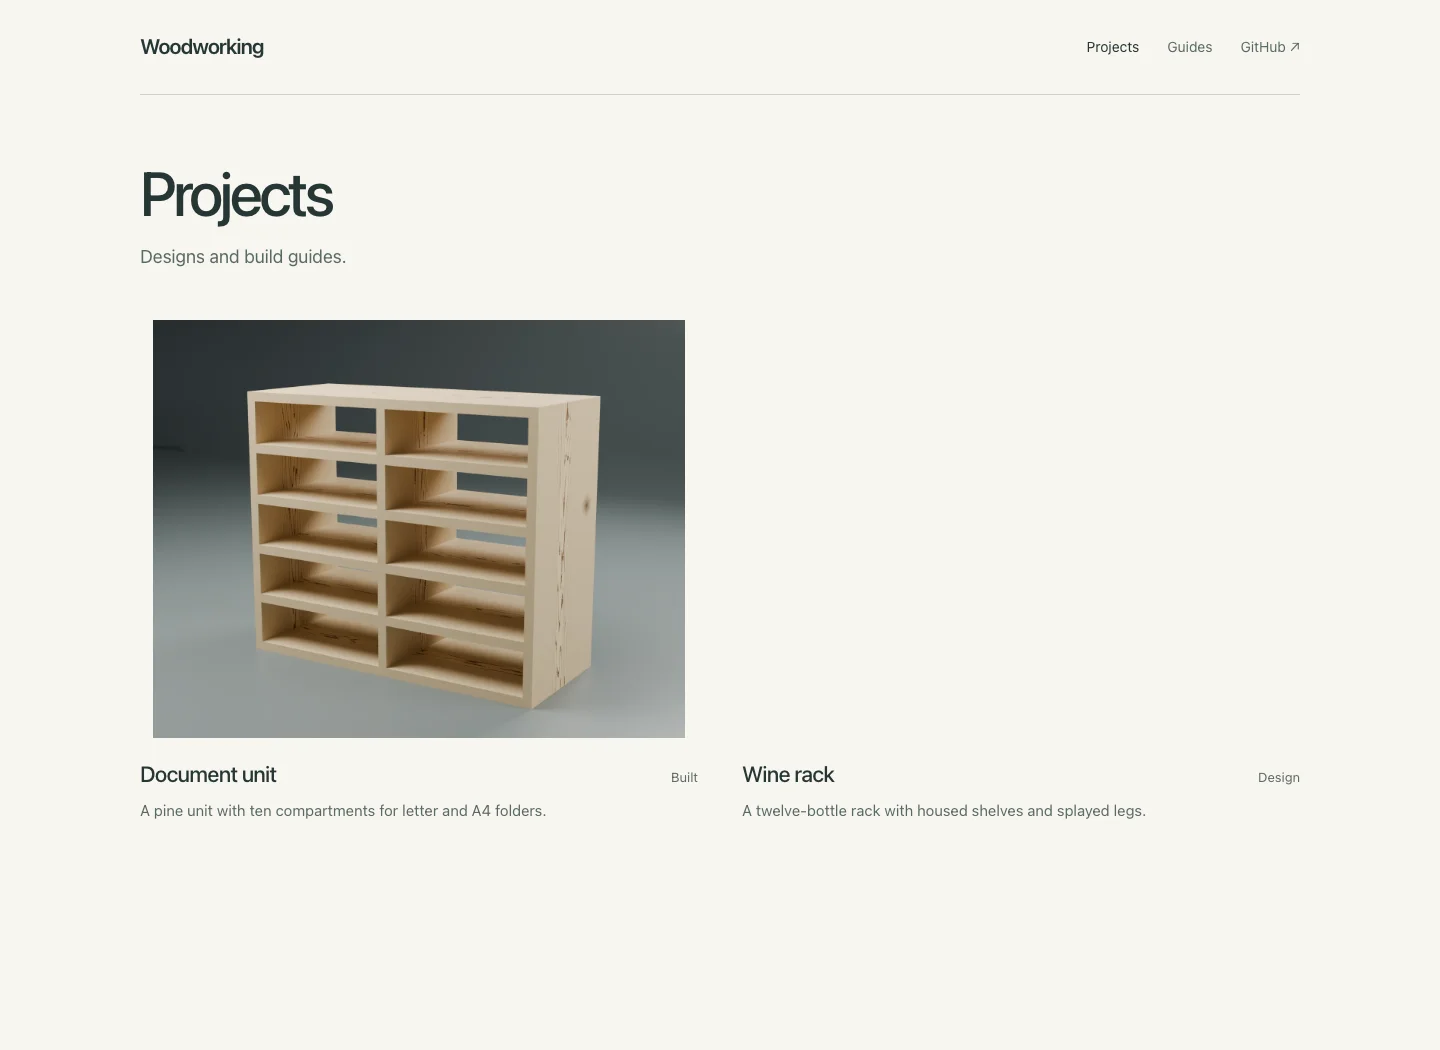
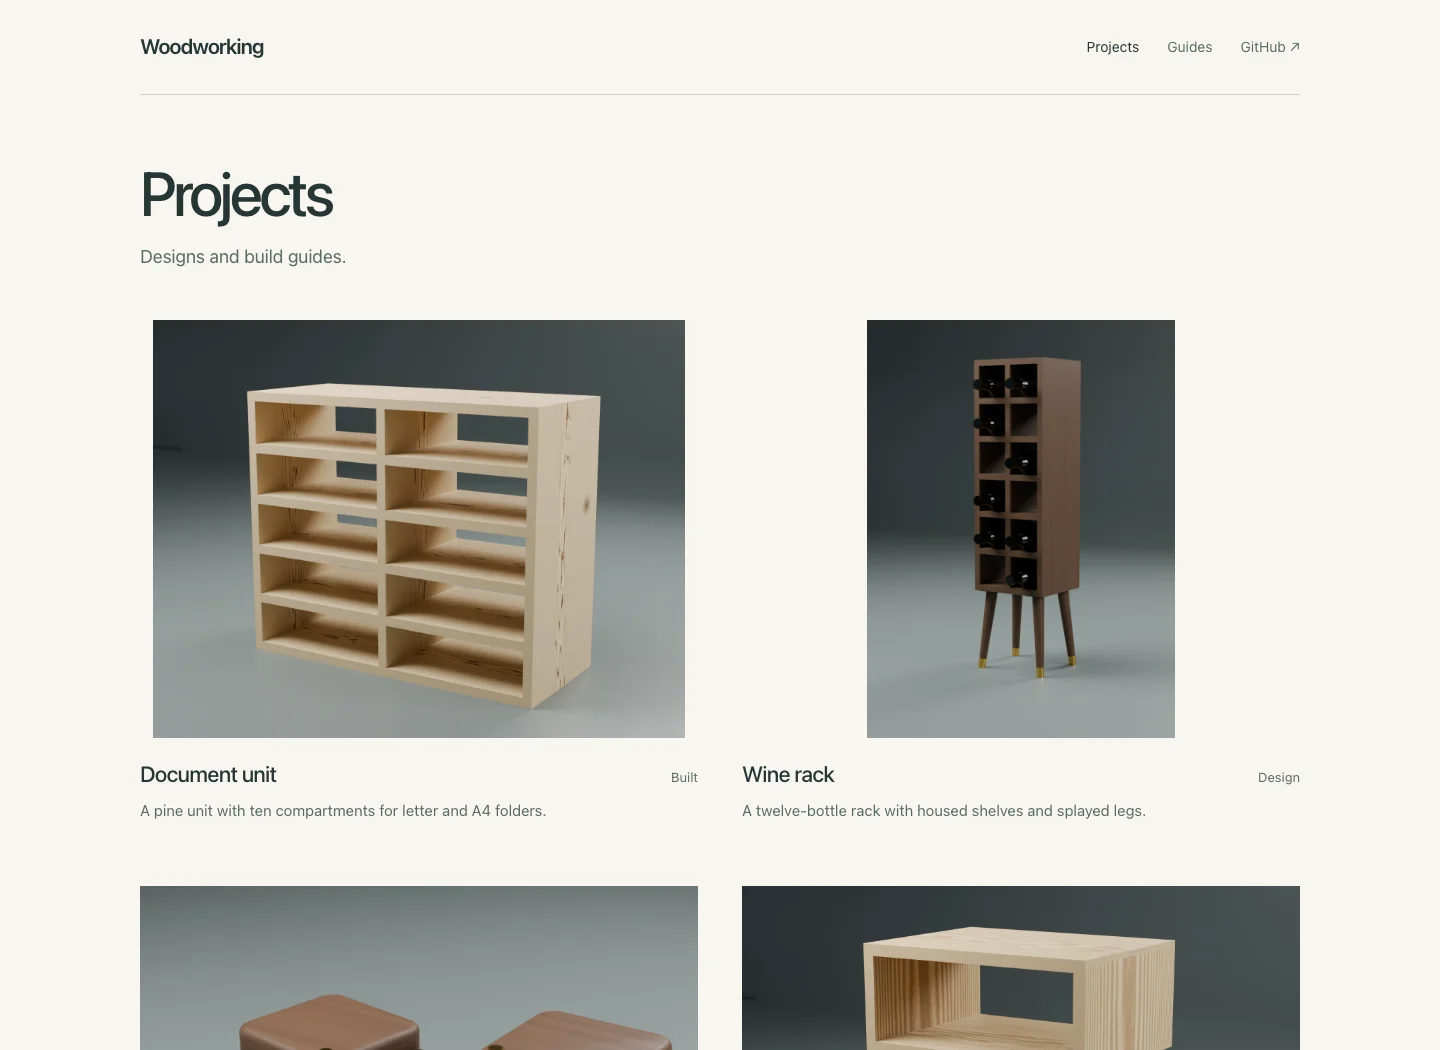
Add Cycles beauty renders and studio presentation for salt boxes (#4)

Changed region(s): [[0.0938, 0.8229, 0.9062, 1.0], [0.5938, 0.3048, 0.8438, 0.701]]

diff --git a/projects/salt-boxes/guide.html b/projects/salt-boxes/guide.html
@@ -203,7 +203,7 @@ footer {
 .dwg .note { font-size:9.5px; fill:var(--muted); }
 </style></head><body><main><nav><a href="README.md">Project</a><a href="README.md">Editable guide</a></nav><h1 id="salt-boxes-laminated-hardwood-swivelling-lid">Salt boxes — laminated hardwood, swivelling lid</h1>
 <p>A pair. <strong>3-1/4&quot; square</strong>, differing only in height. Stack-laminated from hardwood offcuts, with generously rounded corners and a lid that pivots on a brass screw.</p>
-<figure><a href="renders/L2_open.png"><img src="renders/L2_open.png" alt="Open" loading="lazy"></a><figcaption>Open</figcaption></figure>
+<figure><a href="renders/beauty_walnut.png"><img src="renders/beauty_walnut.png" alt="Salt boxes" loading="lazy"></a><figcaption>Salt boxes</figcaption></figure>
 <div class="table-wrap"><table><thead><tr><th></th><th>MSG</th><th>Sugar</th></tr></thead><tbody>
 <tr><td>Middle layers</td><td>2</td><td>3</td></tr>
 <tr><td>Height</td><td>3&quot;</td><td>3-3/4&quot;</td></tr>

diff --git a/lib/scene.py b/lib/scene.py
@@ -42,8 +42,9 @@ ap.add_argument("--res", default="1400x1900")
 ap.add_argument("--parts", default="projects/wine-rack/exports/parts")
 ap.add_argument("--view", default="hero",
                 choices=["hero", "front", "detail", "wide",
-                         "bedside_hero", "bedside_front", "bedside_detail"])
-ap.add_argument("--model", default="winerack", choices=["winerack", "bedside"])
+                         "bedside_hero", "bedside_front", "bedside_detail",
+                         "saltbox_hero", "saltbox_detail", "saltbox_front"])
+ap.add_argument("--model", default="winerack", choices=["winerack", "bedside", "saltbox"])
 ap.add_argument("--bottles", default="1")
 ap.add_argument("--legs", default="wood", choices=["wood", "metal"])
 args = ap.parse_args(argv)
@@ -157,6 +158,21 @@ MODELS = {
             "brass": ["glides"],
         },
         smooth={"legs", "glides"},
+    ),
+    "saltbox": dict(
+        groups={
+            "wood_x": [
+                "short_bottom", "short_mid0", "short_mid1", "short_lid",
+                "tall_bottom", "tall_mid0", "tall_mid1", "tall_mid2", "tall_lid",
+            ],
+            "brass": ["short_brass", "tall_brass"],
+            "steel": ["short_steel", "tall_steel"],
+        },
+        smooth={
+            "short_bottom", "short_mid0", "short_mid1", "short_lid",
+            "tall_bottom", "tall_mid0", "tall_mid1", "tall_mid2", "tall_lid",
+            "short_brass", "tall_brass", "short_steel", "tall_steel",
+        },
     ),
 }
 GROUPS = MODELS[args.model]["groups"]
@@ -546,6 +562,10 @@ VIEWS = {
     "bedside_hero":   (32, 14, 1.95, 75, 0.52),
     "bedside_front":  (0, 8, 1.95, 80, 0.52),
     "bedside_detail": (36, 12, 1.05, 85, 0.80),
+    # Salt boxes: 0.10 m tall, 0.24 m wide pair
+    "saltbox_hero":   (34, 25, 0.76, 85, 0.46, -0.12, 0.0),
+    "saltbox_detail": (34, 26, 0.58, 85, 0.45, -0.45, -0.10),
+    "saltbox_front":  (0, 16, 0.76, 85, 0.45),
 }
 _v = VIEWS[args.view]
 az, el, dist, focal, aim = _v[:5]

diff --git a/projects/salt-boxes/README.md b/projects/salt-boxes/README.md
@@ -4,7 +4,7 @@ A pair. **3-1/4" square**, differing only in height. Stack-laminated from
 hardwood offcuts, with generously rounded corners and a lid that pivots on a
 brass screw.
 
-![Open](renders/L2_open.png)
+![Salt boxes](renders/beauty_walnut.png)
 
 | | MSG | Sugar |
 |---|---|---|
